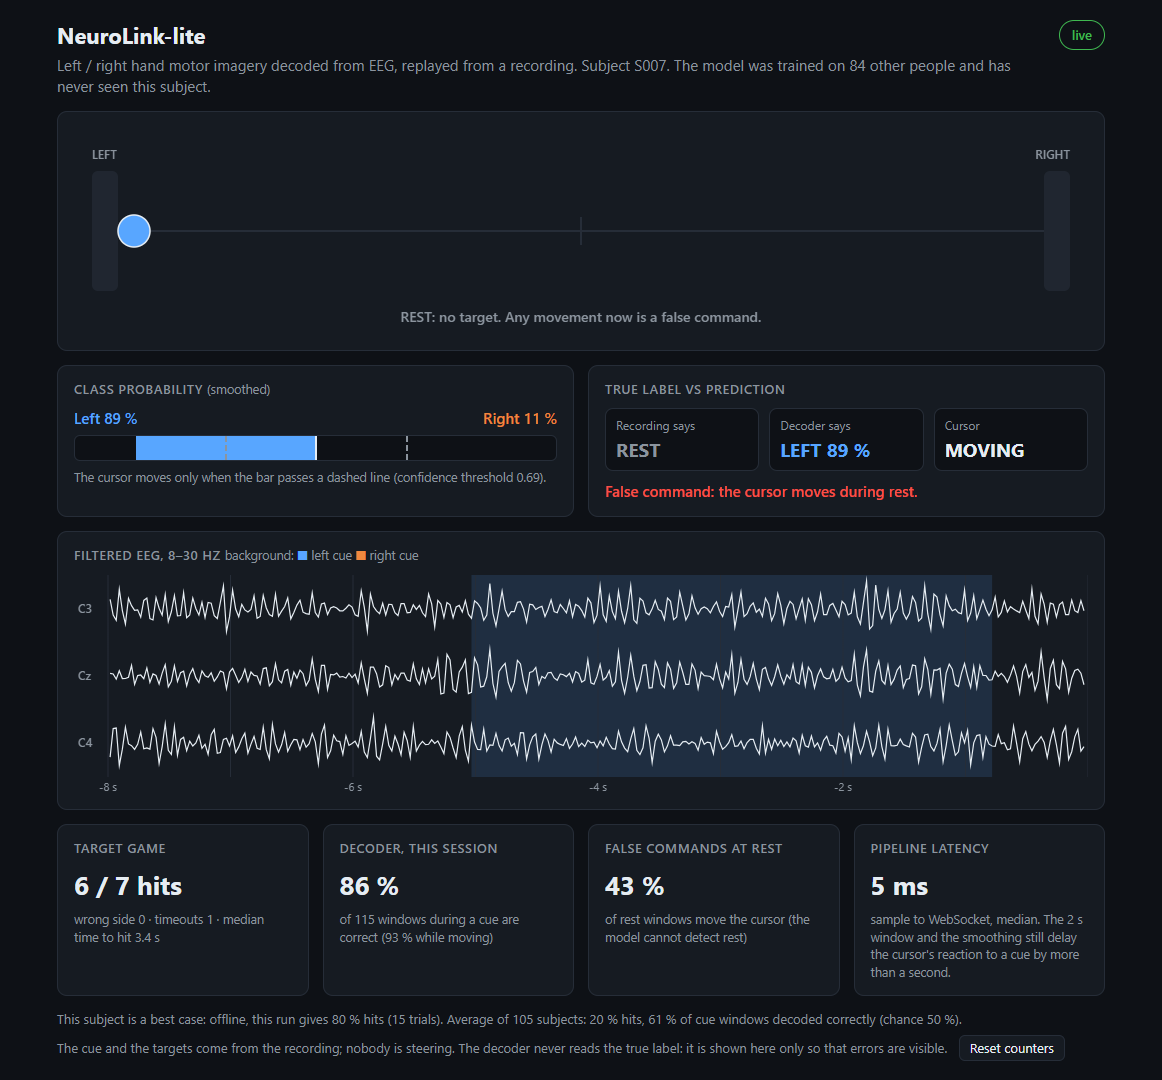
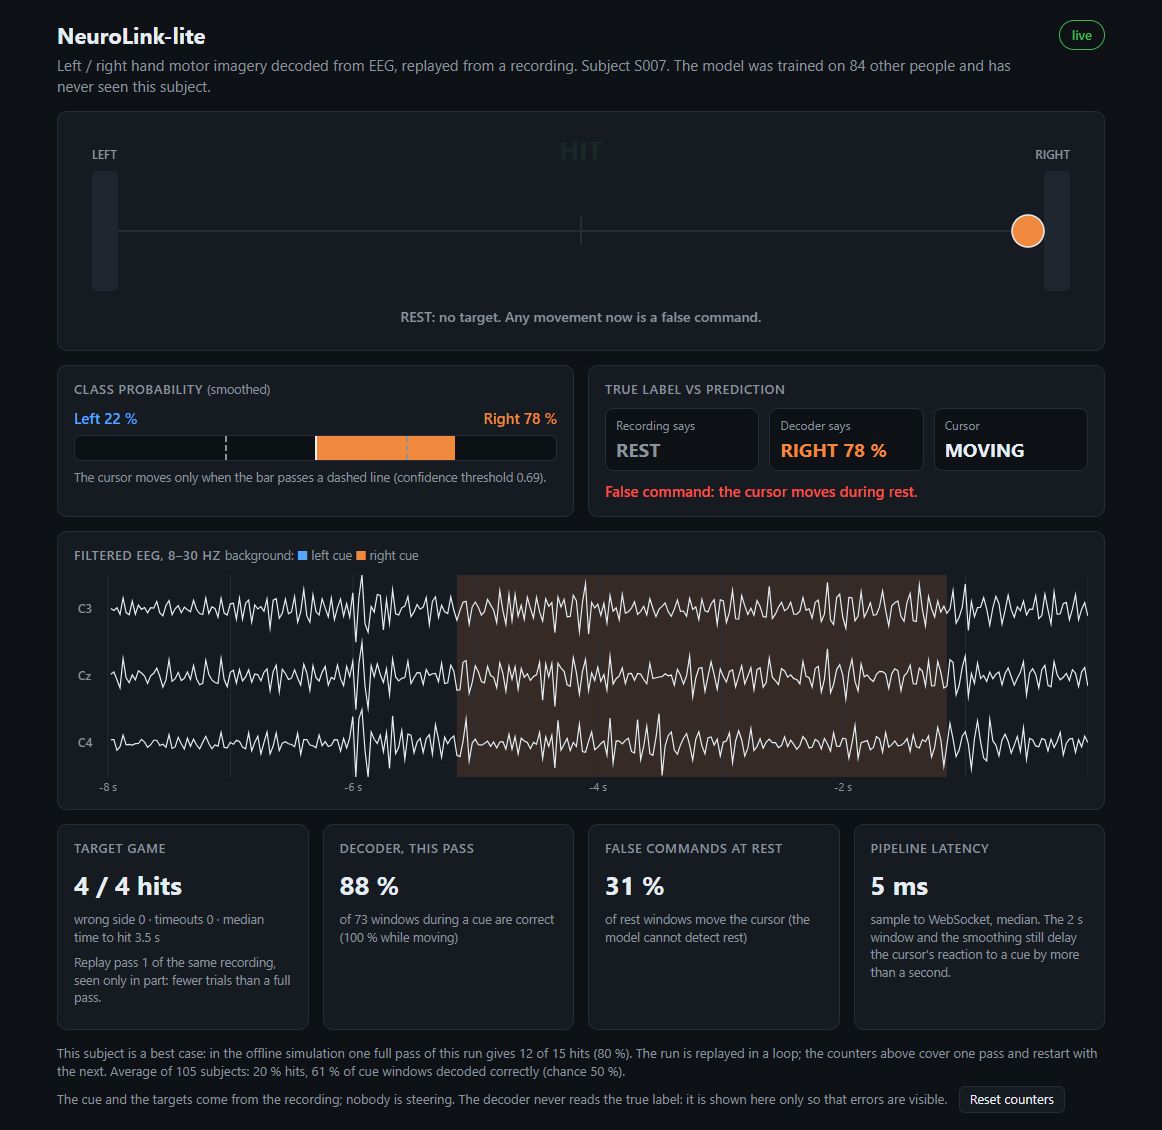
docs: stream-time game, per-pass counters, hidden-tab bug and dependency audit

diff --git a/docs/architecture.md b/docs/architecture.md
@@ -223,10 +223,42 @@ decisions that are not obvious from the code.
   The UI prints the best-case and the average numbers under the game (from `/info`).
 - **Serving the built UI from FastAPI is left to Phase 6.** In Phase 5 the Vite dev
   server proxies `/ws`, `/info`, `/health` and `/latency` to `neurolink serve`.
-- **The live game agrees with the simulation.** One pass of run 12 through streamer,
-  server and browser (headless Chrome) showed 12 hits, no wrong-side hit and 2 timeouts in
-  the 14 trials the page saw, median 3.3 s to a hit; the simulation gives 12 hits and 3
-  timeouts in 15 trials, median 3.3 s. The page joined after the first trial had begun.
+- **The game runs on stream time, not on animation frames.** The first version moved the
+  cursor inside `requestAnimationFrame`. A hidden or covered browser tab gets no frames
+  while the WebSocket keeps delivering predictions, so the cursor stood still and every
+  trial played in the background ended as a timeout: a session left open behind another
+  window showed 24 hits in 52 trials, 28 timeouts and no wrong-side hit, with 87 % of the
+  cue windows decoded correctly. (Reproduced in headless Chrome: 3 of 3 hits while
+  visible, then no hit and 5 timeouts in the 6 trials that began while hidden.) Now every prediction
+  grants its velocity one decoder step of stream time; frames spend that budget for
+  smooth drawing and the next prediction spends what is left. The score is the same for
+  any frame timing, including none; `game.test.ts` replays the shared cases without a
+  single frame and with irregular ones. Looping the recording was not the cause: four
+  looped passes through the online decoder give 12 of 15 hits each (run 12 is 20000
+  samples, a multiple of the 40-sample step, so every pass sees the same windows).
+- **The counters cover one replay pass.** Summing passes gives a number that matches
+  nothing reported offline. The streamer numbers its passes in the marker stream
+  (`"left|3"`, repeated every second so a late joiner learns the state at once), the
+  server adds `replay_pass` to every prediction, and the page (`session.ts`) starts the
+  counters again with each pass, keeps the scores of the last five and marks a pass it
+  did not see from start to end. The classifier still never reads the marker stream.
+- **A trial whose start was not seen is not scored.** The page may connect, or reconnect
+  after a gap of more than a second of stream time, in the middle of a trial; the cursor
+  was then not reset at the cue, so the outcome would mean nothing. Such a trial is
+  skipped, and one that was open when the stream broke off is dropped. The simulation
+  does not need this rule: all 315 stored runs start with a rest window. The shared
+  fixture cases therefore all start with rest.
+- **The live game agrees with the simulation.** After the fix, streamer, server and browser (headless Chrome, dev server of vite 8) were run with the tab visible for 10 s, hidden for 250 s and visible again: pass 1, which the page joined after the first trial, scored 12 hits in 14 trials (marked partial), pass 2, played entirely while hidden, 12 hits, no wrong-side hit and 3 timeouts in 15 trials. The simulation gives 12 hits and 3 timeouts in 15 trials.
+- **Frontend dependencies.** `npm audit` reported 6 advisories (2 critical, 1 high,
+  3 moderate), all in the development tool chain: esbuild <= 0.24.2 (any website can
+  read from the dev server), vite <= 6.4.3 and vite-node, which depend on it, and
+  tinypool <= 2.1.1 and @vitest/mocker <= 4.1.11 inside vitest. None of it is in the
+  built page, which has no runtime dependencies. `npm audit fix` without `--force`
+  changes nothing, because every fix is a major version of vite or vitest. Instead of
+  forcing it, the two packages were raised by hand to the current majors (vite 5 -> 8,
+  vitest 2 -> 5) and checked: type-check, the unit tests, the production build and the
+  dev server with its WebSocket proxy in a real browser. `npm audit` now reports no
+  vulnerabilities. vitest 5 needs Node >= 22.12; CI runs Node 22.
 - **The UI has no end-to-end browser test.** The game, the counters, the buffers and the
   message parsing are pure modules covered by vitest; drawing and the WebSocket wiring
   were checked by running the stack and looking at screenshots.

diff --git a/README.md b/README.md
@@ -1,8 +1,8 @@
 # NeuroLink-lite: Thought-Controlled Cursor (EEG + Deep Learning)
 
-> **Status:** work in progress. Data pipeline, CSP+LDA baseline, EEGNet and the real-time
-> system (LSL replay, online classifier, WebSocket server) are done (Phases 0-4); the
-> browser UI (Phase 5) is awaiting review and the one-command demo (Phase 6) is next.
+> **Status:** work in progress. Data pipeline, CSP+LDA baseline, EEGNet, the real-time
+> system (LSL replay, online classifier, WebSocket server) and the browser UI are done
+> (Phases 0-5); the one-command demo and the final polish (Phase 6) are next.
 
 NeuroLink-lite is a small, honest, open-source brain-computer interface (BCI) project.
 It classifies EEG recorded while a person *imagines* moving their left or right hand, and
@@ -227,7 +227,7 @@ is the share of all trials of the row.
 
 ### Browser UI
 
-![The UI during a rest period: the decoder is 89 % sure of "left" and the cursor moves although nothing is being imagined](docs/ui.png)
+![The UI during a rest period: the decoder is 78 % sure of "right" and the cursor moves although nothing is being imagined](docs/ui.png)
 
 The page (Vite + TypeScript + Canvas, no framework) shows what the decoder does and, next
 to it, what it should have done:
@@ -239,8 +239,8 @@ to it, what it should have done:
 - **True label vs prediction.** The state of the recording (rest / left / right) beside the
   decoder output, with a verdict for the current window.
 - **Filtered EEG** of C3, Cz and C4 (the last 8 s), shaded by the true cue.
-- **Counters** for the session: game score, accuracy during cues, share of rest windows
-  that move the cursor, pipeline latency.
+- **Counters** for the current pass of the replay: game score, accuracy during cues,
+  share of rest windows that move the cursor, and the pipeline latency.
 
 **The target game follows the recording.** Nobody is steering, so the user cannot pick a
 target. When a trial starts the cursor returns to the centre and the target is the wall
@@ -263,9 +263,21 @@ The demo run happens to be the better part of this subject's data (80.0 % of tar
 against 46.7 % on the two runs the speed was chosen on); that is how the split fell, not
 a choice. For the average subject the game is mostly timeouts: 0 of 105 subjects hit
 70 % of their targets over all three runs. A hit takes a median of 3.3 s of the 4.1 s
-trial. The live UI agrees with the simulation: over one pass of run 12 in the browser it
-showed 12 hits, no wrong-side hit and 2 timeouts in the 14 trials it saw, 89 % of cue
-windows correct, and the cursor moving during 54 % of rest windows.
+trial.
+
+**The counters cover one pass of the run.** The streamer replays run 12 in a loop and
+numbers the passes; the page starts its counters again with every pass and lists the
+scores of the earlier ones, so what is on screen can be compared with the "12 of 15"
+above. A pass the page saw only in part (it was opened in the middle, or the connection
+dropped) is marked as such, and a trial that was already running when the page connected
+is not scored.
+
+**The game runs on stream time.** Each prediction moves the cursor for exactly one
+decoder step (0.25 s), whether or not the browser drew a frame in between. The first
+version moved the cursor only when a frame was drawn, and a browser tab in the background
+draws none: with the page left open behind another window it showed 24 hits in 52 trials
+with 28 timeouts, while the decoder was right in 87 % of the cue windows. That was a bug
+of the page, not a property of the decoder. Checked in headless Chrome after the fix, with the tab hidden for more than four minutes: the pass played entirely in the background scored 12 of 15 hits with no wrong-side hit, and the pass the page had joined after its first trial 12 of 14, as in the simulation.
 
 ## How to run
 
@@ -312,7 +324,7 @@ Browser UI (Vite + TypeScript), with `neurolink stream` and `neurolink serve` ru
 
 ```bash
 cd frontend
-npm install
+npm install        # Node 22.12 or newer
 npm run dev        # then open http://localhost:5173
 ```
 
